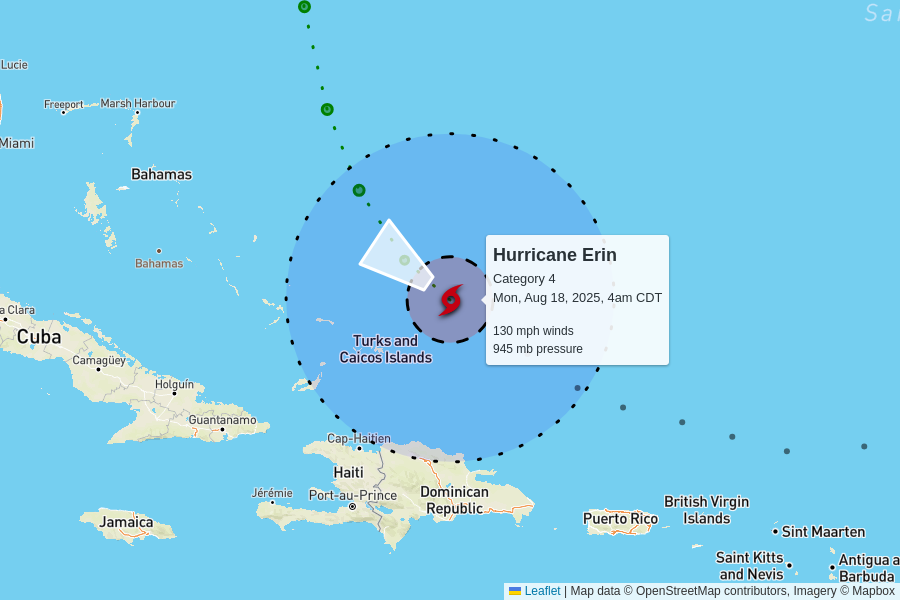
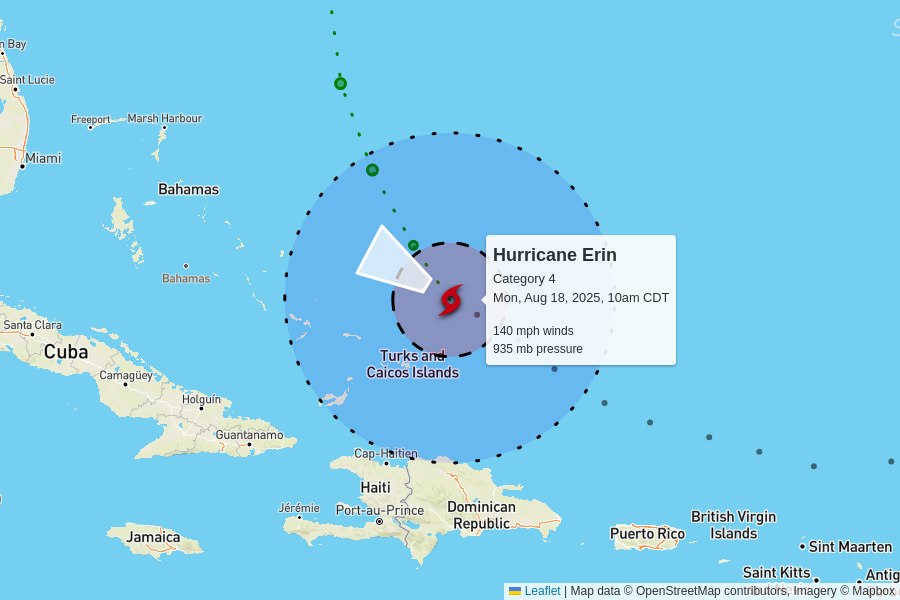
automatic update

diff --git a/docs/index.html b/docs/index.html
@@ -102,7 +102,7 @@
         <td colspan="6" class="storm category-4" >
           <h2>
             Hurricane Erin - Category 4
-            <p class="updated">last updated <span data-time>2025-08-18T09:00:00.000Z</span></p>
+            <p class="updated">last updated <span data-time>2025-08-18T15:00:00.000Z</span></p>
           </h2>
         </td>
       </tr>
@@ -117,12 +117,12 @@
       </tr>
       <tr>
         <td class="spacer"></td>
-        <td>130 mph<br>0 mph since last update</td>
-        <td>945 mb<br>+3 mb since last update</td>
+        <td>140 mph<br>+10 mph since last update</td>
+        <td>935 mb<br>-10 mb since last update</td>
         <td>
-          13 mph to the northwest
+          10 mph to the west-northwest
           <br/>
-          <span style="display: inline-block; font-size: 1.5em; transform: rotate(305deg);">↑</span>
+          <span style="display: inline-block; font-size: 1.5em; transform: rotate(300deg);">↑</span>
         </td>
         <td><a href="https://raw.githubusercontent.com/mgwalker/atlantic-hurricanes/main/data/csv/AL052025.csv">AL052025.csv</a></td>
         <td><a href="https://www.nhc.noaa.gov/archive/2025/ERIN.shtml?">NHC advisories</a></td>
